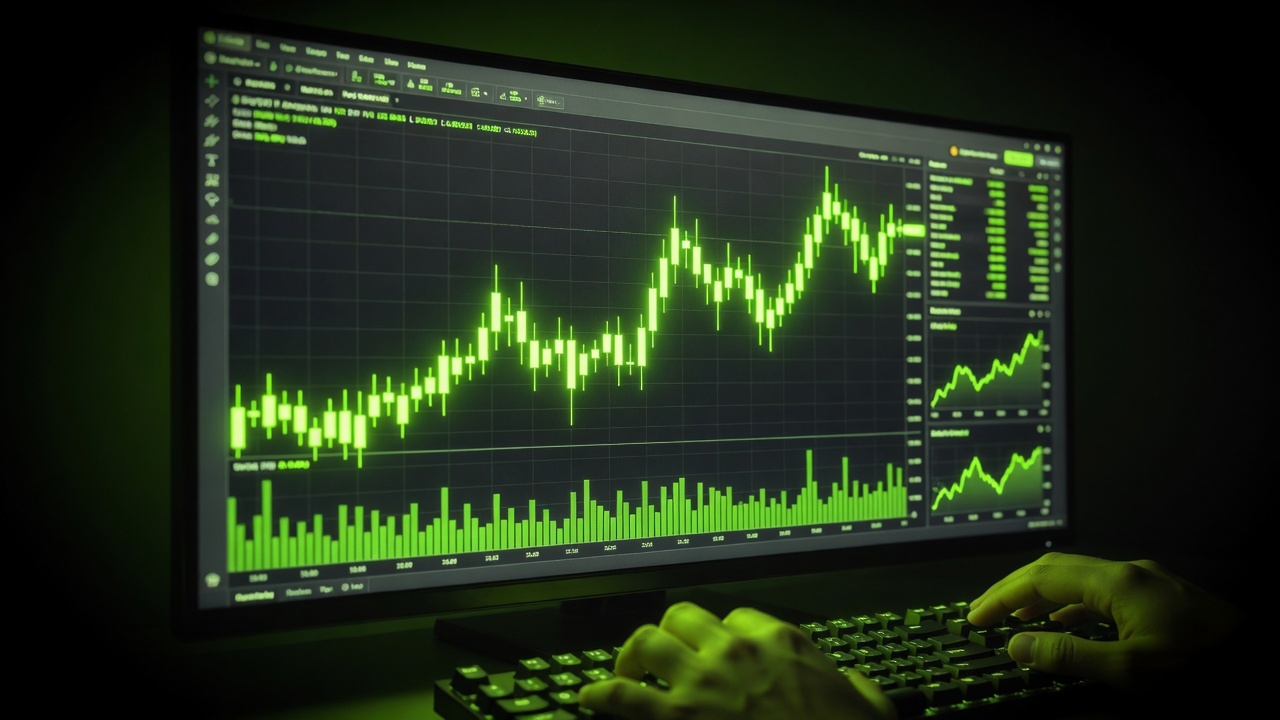
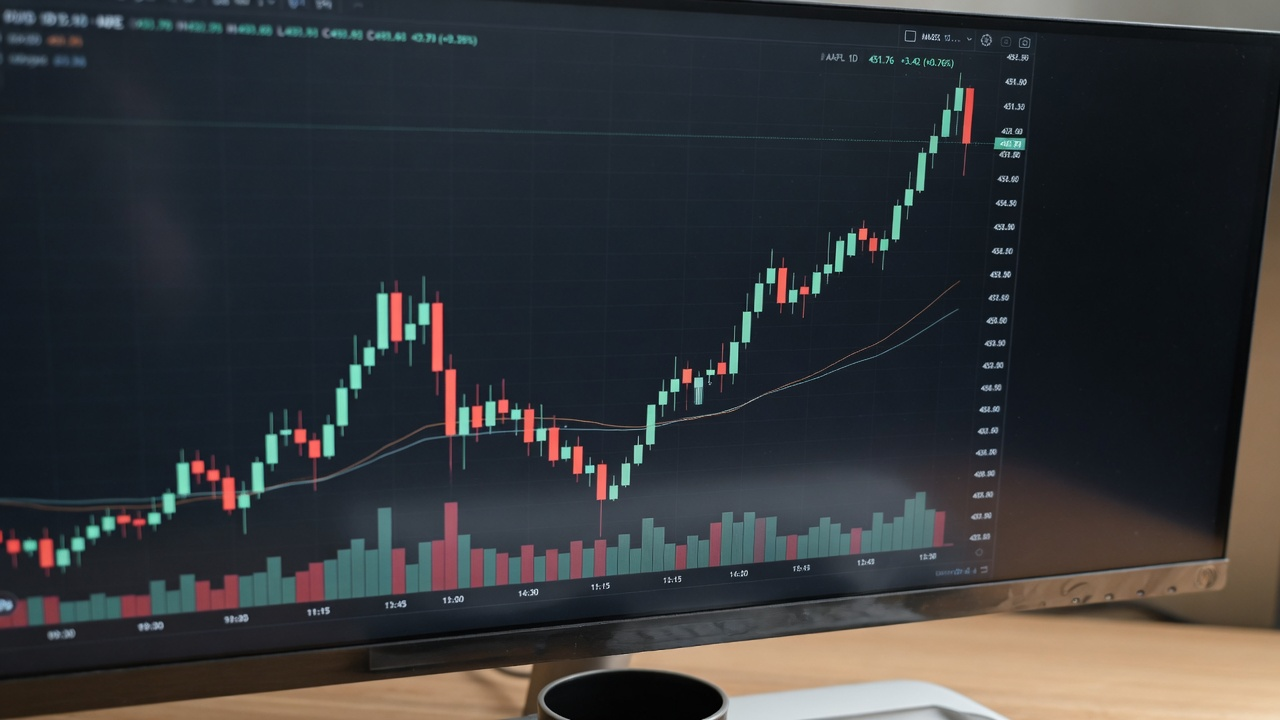
fix(site): book clip, copy slop pass, pro manifesto chart
Order book no longer clips last row. Strip process-meta microcopy.
Manifesto + Trade room use photoreal desk/chart art (cache-bust path).

diff --git a/sites/sovereign-os/src/components/exchange/OrderBook.tsx b/sites/sovereign-os/src/components/exchange/OrderBook.tsx
@@ -13,31 +13,32 @@ export function OrderBook({
 }) {
   const max = Math.max(...asks.map((a) => a.s), ...bids.map((b) => b.s), 0.01);
   return (
-    <div className="flex h-full min-h-[180px] flex-col bg-[#040705] font-mono text-[10px]">
-      <div className="flex items-center justify-between border-b border-line px-2 py-2 text-mute">
+    <div className="flex h-full min-h-0 flex-col bg-[#040705] font-mono text-[10px]">
+      <div className="flex shrink-0 items-center justify-between border-b border-line px-2 py-1.5 text-mute">
         <span className="uppercase tracking-wider">Order book</span>
         <span className="text-lime/80">DEMO</span>
       </div>
-      <div className="grid grid-cols-3 gap-1 border-b border-line px-2 py-1 text-[9px] uppercase tracking-wider text-mute">
+      <div className="grid shrink-0 grid-cols-3 gap-1 border-b border-line px-2 py-1 text-[9px] uppercase tracking-wider text-mute">
         <span>Price</span>
         <span className="text-right">Size</span>
         <span className="text-right">Total</span>
       </div>
-      <div className="flex-1 overflow-hidden">
+      {/* Scroll if tight - never clip the last bid row */}
+      <div className="min-h-0 flex-1 overflow-y-auto overscroll-contain pb-1">
         {[...asks].reverse().map((row, i) => (
-          <div key={`a-${i}`} className="relative grid grid-cols-3 gap-1 px-2 py-0.5">
+          <div key={`a-${i}`} className="relative grid grid-cols-3 gap-1 px-2 py-0.5 leading-tight">
             <div className="absolute inset-y-0 right-0 bg-danger/10" style={{ width: `${(row.s / max) * 100}%` }} aria-hidden />
             <span className="relative text-danger">{row.p.toLocaleString()}</span>
             <span className="relative text-right text-mute">{row.s.toFixed(2)}</span>
             <span className="relative text-right text-mute/70">{(row.s * 1.4).toFixed(2)}</span>
           </div>
         ))}
-        <div className="my-1 border-y border-line bg-panel px-2 py-1.5 text-center">
+        <div className="my-0.5 border-y border-line bg-panel px-2 py-1 text-center">
           <span className="text-sm font-bold text-lime">{mark}</span>
           <span className="ml-2 text-[9px] text-mute">{markLabel} · demo</span>
         </div>
         {bids.map((row, i) => (
-          <div key={`b-${i}`} className="relative grid grid-cols-3 gap-1 px-2 py-0.5">
+          <div key={`b-${i}`} className="relative grid grid-cols-3 gap-1 px-2 py-0.5 leading-tight">
             <div className="absolute inset-y-0 right-0 bg-lime/10" style={{ width: `${(row.s / max) * 100}%` }} aria-hidden />
             <span className="relative text-lime">{row.p.toLocaleString()}</span>
             <span className="relative text-right text-mute">{row.s.toFixed(2)}</span>

diff --git a/sites/sovereign-os/src/components/sections/RoomsFloor.tsx b/sites/sovereign-os/src/components/sections/RoomsFloor.tsx
@@ -172,9 +172,7 @@ export function RoomsFloor() {
               <br />
               rooms around it
             </h2>
-            <p className="mt-2 max-w-[42ch] text-sm text-mute">
-              Hover a room. Trade stays the core. The scene below switches with the room - picture and words together.
-            </p>
+            <p className="mt-2 max-w-[42ch] text-sm text-mute">Trade is the core. Every other room opens on the same key.</p>
           </div>
           <p className="font-mono text-[10px] uppercase tracking-[0.14em] text-mute">12 rooms · 1 key</p>
         </div>
@@ -309,11 +307,7 @@ export function RoomsFloor() {
               <h3 className="mt-2 text-2xl font-extrabold tracking-tight text-ink md:text-3xl">{focus.name}</h3>
               <p className="mt-1 text-sm font-medium text-mute">{focus.role}</p>
               <p className="mt-3 max-w-[42ch] text-[15px] leading-relaxed text-ink/85">{focus.body}</p>
-              {!focus.hot ? (
-                <p className="mt-3 font-mono text-[10px] uppercase tracking-wider text-mute/80">
-                  Same key as the desk · these rooms open with the house
-                </p>
-              ) : null}
+              {!focus.hot ? <p className="mt-3 font-mono text-[10px] uppercase tracking-wider text-mute/80">Same key as the desk</p> : null}
             </div>
             <div className="shrink-0">
               {focus.hot && focus.href ? (
@@ -325,7 +319,7 @@ export function RoomsFloor() {
                 </a>
               ) : (
                 <span className="inline-flex border border-line/80 bg-void/55 px-3 py-2 font-mono text-[10px] uppercase tracking-wider text-mute backdrop-blur-sm">
-                  House room
+                  Opens with the house
                 </span>
               )}
             </div>

diff --git a/sites/sovereign-os/src/components/sections/PlanesSplit.tsx b/sites/sovereign-os/src/components/sections/PlanesSplit.tsx
@@ -76,7 +76,7 @@ export function PlanesSplit() {
       <div className="relative mx-auto max-w-6xl xl:max-w-7xl px-4 py-14 md:px-6">
         <h2 className="text-3xl font-extrabold tracking-tight text-balance md:text-4xl md:whitespace-nowrap">We refuse the trade-off</h2>
         <p className="mt-2 max-w-[48ch] text-sm text-mute">
-          Hover a plane. Who holds the keys is never fuzzy - custody is either ours and said, or yours and enforced.
+          Who holds the keys is never fuzzy - custody is either ours and said, or yours and enforced.
         </p>
 
         {/* Compare strip - fills void with live grammar */}
@@ -158,7 +158,7 @@ export function PlanesSplit() {
                       {cfg.label}
                     </span>
                     <span className={['font-mono text-[9px] uppercase tracking-wider', on ? 'text-lime' : 'text-mute/70'].join(' ')}>
-                      {on ? 'ACTIVE' : 'HOVER'}
+                      {on ? 'LIVE' : 'STANDBY'}
                     </span>
                   </div>
 
@@ -199,7 +199,7 @@ export function PlanesSplit() {
                         </ul>
                       </motion.div>
                     ) : (
-                      <p className="font-mono text-[11px] tracking-wider text-mute/60">Hover to open this plane</p>
+                      <p className="font-mono text-[11px] tracking-wider text-mute/60">Select this plane</p>
                     )}
                   </AnimatePresence>
                 </div>

diff --git a/sites/sovereign-os/src/components/exchange/ExchangeTerminal.tsx b/sites/sovereign-os/src/components/exchange/ExchangeTerminal.tsx
@@ -57,7 +57,7 @@ export function ExchangeTerminal() {
             real market candles
           </h2>
           <p className="mt-3 max-w-[46ch] text-sm text-mute">
-            Hover a market type - the desk shifts. Candles are public market OHLC. Ticket is demo chrome.
+            Spot, perps, options, OTC - one desk. Candles are public market OHLC. Book and ticket are demo chrome.
           </p>
         </div>
         <p className="font-mono text-[10px] uppercase tracking-wider text-mute">
@@ -147,7 +147,7 @@ export function ExchangeTerminal() {
             />
           </div>
 
-          <div className="max-h-[220px] overflow-hidden border-t border-line bg-[#040705]">{depth}</div>
+          <div className="min-h-[240px] border-t border-line bg-[#040705] md:min-h-[260px]">{depth}</div>
         </div>
 
         {/* Mobile */}
@@ -157,7 +157,7 @@ export function ExchangeTerminal() {
           </Suspense>
           <div className="grid grid-cols-2 border-t border-line">
             <MarketsList pairs={cfg.pairs} active={cfg.symbol} />
-            <div className="max-h-[220px] overflow-hidden border-l border-line">{depth}</div>
+            <div className="min-h-[240px] border-l border-line">{depth}</div>
           </div>
           <OrderTicket
             buyLabel={cfg.ticket.buy}

diff --git a/sites/sovereign-os/src/components/sections/InsideScroll.tsx b/sites/sovereign-os/src/components/sections/InsideScroll.tsx
@@ -22,7 +22,7 @@ const CHAPTERS: {
     id: 'match',
     t: 'Matching & risk',
     b: 'Own books, margin engine, liquidation, smart router.',
-    d: 'Exchange spine first - venue fabric on our rails, not a borrowed stack with a skin.',
+    d: 'Exchange spine first - on our rails, not a borrowed stack with a skin.',
     Icon: Scales,
   },
   {
@@ -34,8 +34,8 @@ const CHAPTERS: {
   },
   {
     id: 'exec',
-    t: 'Execution empire',
-    b: 'Algos, arb, MM, cross-venue brain.',
+    t: 'Execution',
+    b: 'Algos, arb, MM, cross-venue routing.',
     d: 'Order path we own. Not a middleman API dressed as product.',
     Icon: Lightning,
   },
@@ -89,7 +89,7 @@ export function InsideScroll() {
         <div className="flex flex-wrap items-end justify-between gap-4">
           <div>
             <h2 className="text-2xl font-extrabold tracking-tight md:text-3xl">Inside the house</h2>
-            <p className="mt-2 max-w-[44ch] text-sm text-mute">Hover a cell. Depth without empty black.</p>
+            <p className="mt-2 max-w-[44ch] text-sm text-mute">The systems under every trade and every room.</p>
           </div>
           <span className="font-mono text-[10px] tracking-wider text-mute">8 SYSTEMS · 1 KEY</span>
         </div>

diff --git a/sites/sovereign-os/src/components/sections/ChainTimeline.tsx b/sites/sovereign-os/src/components/sections/ChainTimeline.tsx
@@ -37,7 +37,7 @@ export function ChainTimeline() {
         <div className="flex flex-wrap items-end justify-between gap-4">
           <div>
             <h2 className="max-w-[16ch] text-2xl font-extrabold tracking-tight md:text-3xl">Not a tenant on somebody else&apos;s chain</h2>
-            <p className="mt-2 max-w-[40ch] text-sm text-mute">Hover a phase. Path is product, not empty padding.</p>
+            <p className="mt-2 max-w-[40ch] text-sm text-mute">Settlement path under the house. Near-term first.</p>
           </div>
           <span className="font-mono text-[10px] tracking-wider text-lime">INTACHAIN · PATH</span>
         </div>
@@ -69,7 +69,7 @@ export function ChainTimeline() {
         </div>
 
         <div className="mt-4 border border-line bg-void px-5 py-4">
-          <p className="font-mono text-[10px] tracking-[0.14em] text-lime">{step.p} · ACTIVE</p>
+          <p className="font-mono text-[10px] tracking-[0.14em] text-lime">{step.p}</p>
           <p className="mt-1 text-base text-ink">{step.d}</p>
         </div>
       </div>

diff --git a/sites/sovereign-os/src/components/sections/ManifestoBand.tsx b/sites/sovereign-os/src/components/sections/ManifestoBand.tsx
@@ -7,9 +7,9 @@ export function ManifestoBand() {
       <div className="grid lg:grid-cols-2">
         <div className="relative min-h-[280px] lg:min-h-[420px]">
           <img
-            src="./media/desk.jpg"
-            alt="Dark trading desk with lime edge light and market screens"
-            className="absolute inset-0 h-full w-full object-cover"
+            src="./media/manifesto-desk-v2.jpg"
+            alt="Professional trading monitors with market charts"
+            className="absolute inset-0 h-full w-full object-cover object-center"
             loading="lazy"
             decoding="async"
           />

diff --git a/sites/sovereign-os/src/components/sections/DropPhases.tsx b/sites/sovereign-os/src/components/sections/DropPhases.tsx
@@ -23,7 +23,7 @@ export function DropPhases() {
         <div className="grid gap-8 md:grid-cols-[1fr_1.2fr] md:items-end">
           <div>
             <h2 className="text-2xl font-extrabold tracking-tight md:text-3xl">Not a fintech announcement. A game release.</h2>
-            <p className="mt-3 text-sm text-mute">Walk the path. Hover a stage.</p>
+            <p className="mt-3 text-sm text-mute">From signal to open house. Ranked waves.</p>
           </div>
           <div className="border border-line bg-panel px-5 py-4">
             <p className="font-mono text-[11px] tracking-[0.14em] text-lime">

diff --git a/sites/sovereign-os/src/components/sections/BlueprintCards.tsx b/sites/sovereign-os/src/components/sections/BlueprintCards.tsx
@@ -151,9 +151,7 @@ function IdentityGlareCard({ seat, size }: { seat: Seat; size: 'hero' | 'example
             </div>
           )}
 
-          {hero ? (
-            <p className="mt-4 font-mono text-[10px] tracking-wider text-mute/80">Hover - foil glare · tilt · share-card shell</p>
-          ) : null}
+          {hero ? <p className="mt-4 font-mono text-[10px] tracking-wider text-mute/80">The share card is the first flex</p> : null}
         </div>
       </div>
     </GlareCard>

diff --git a/sites/sovereign-os/src/components/hero/HeroSection.tsx b/sites/sovereign-os/src/components/hero/HeroSection.tsx
@@ -97,9 +97,7 @@ export function HeroSection() {
               SEE THE FULL HOUSE
             </HoverBorderGradient>
           </div>
-          <p className="mt-8 font-mono text-[10px] uppercase tracking-[0.12em] text-mute">
-            Markets first · OS under them · preview numbers
-          </p>
+          <p className="mt-8 font-mono text-[10px] uppercase tracking-[0.12em] text-mute">Markets first · house under them</p>
         </div>
       </div>
     </section>
